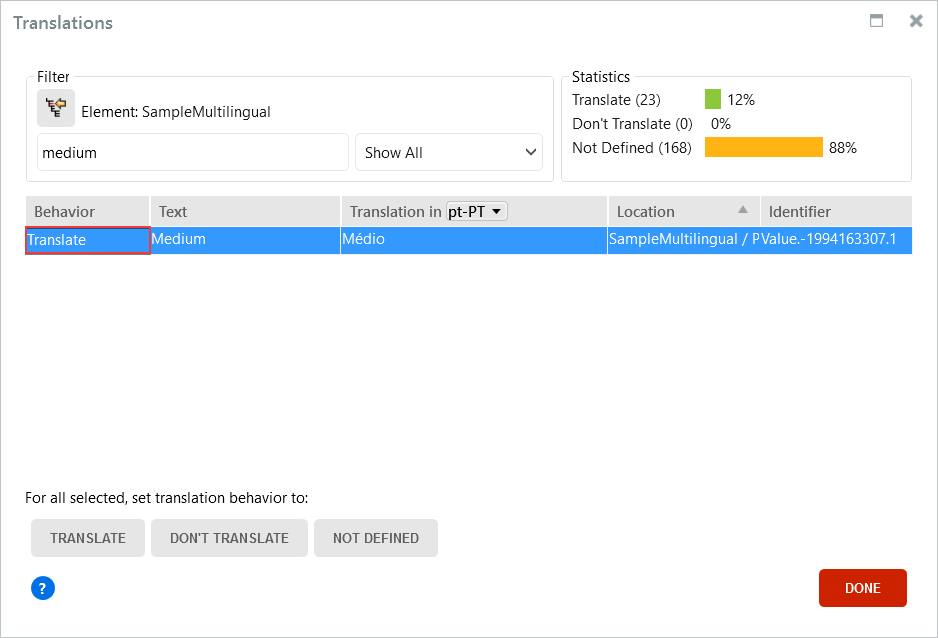
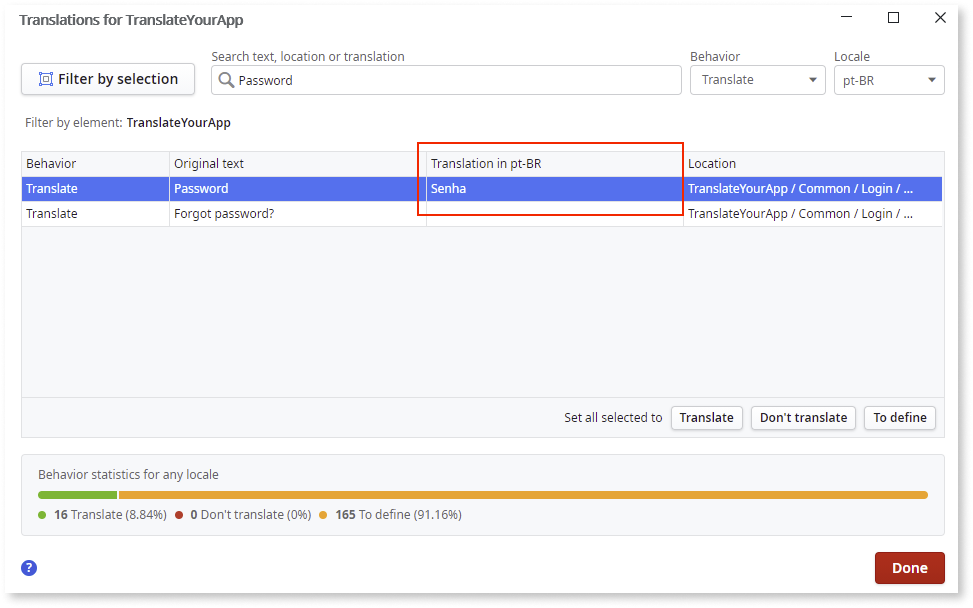
Added new screenshots for Translation editor

Changed region(s): [[0.0, 0.0, 1.0, 1.0], [0.8348, 0.0625, 0.8966, 0.1562]]

diff --git a/src/develop/ui/multilingual-tp/translate-your-app.md b/src/develop/ui/multilingual-tp/translate-your-app.md
@@ -113,13 +113,15 @@ Follow these steps to translate the text in Static Entities and show the transla
 
 1. In the [translation editor](translation-editor.md), search for the text you want to translate and set **Behavior** to **Translate**.
 
+    ![Translation editor](images/static-entity-search-ss.png)
+
+2. While still in the translation editor, enter the translation in the **Translation in (language code)** cell and click **Done**.
+
     ![Translation editor](images/static-entity-translate-ss.png)
 
-2. While still in the translation editor, enter the translation in the **Translation in (language name)** cell.
+3. In the logic, to switch the locale, add **Refresh Data** just after the **SetCurrentLocale** action and select the Static Entity.
 
-3. In the logic to switch the locale, add **Refresh Data** just after the **SetCurrentLocale** action and select the Static Entity.
-
-    ![Refresh of Static Entity](images/static-entity-refresh.png?width=500)
+    ![Refresh of Static Entity](images/static-entity-refresh-ss.png)
 
 ## Switching back to the default language
 
